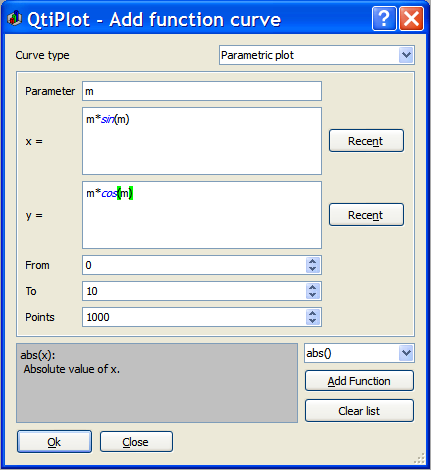
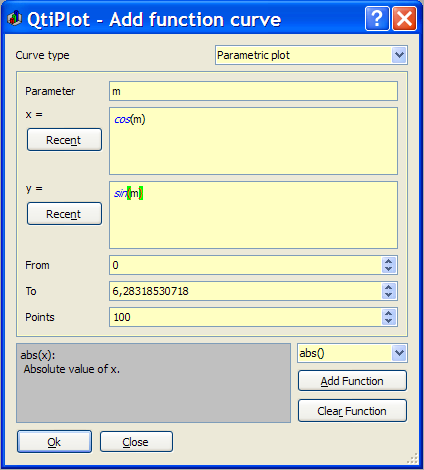
Improved layout of the 2D function dialog (parametric and polar tabs).

diff --git a/trunk/qtiplot/src/plot2D/dialogs/FunctionDialog.cpp b/trunk/qtiplot/src/plot2D/dialogs/FunctionDialog.cpp
@@ -139,7 +139,7 @@ FunctionDialog::FunctionDialog(ApplicationWindow* parent, bool standAlone, Qt::W
 	gl2->addWidget(boxParameter, 0, 1);
 
 	int maxH = 80;
-	gl2->addWidget(new QLabel(tr( "x = " )), 1, 0);
+
 	boxXFunction = new ScriptEdit(d_app->scriptingEnv());
 	boxXFunction->setMaximumHeight(maxH);
 	boxXFunction->enableShortcuts();
@@ -148,10 +148,13 @@ FunctionDialog::FunctionDialog(ApplicationWindow* parent, bool standAlone, Qt::W
 
 	buttonXParLog = new QPushButton(recentBtnText);
 	buttonXParLog->setToolTip(recentTip);
-	gl2->addWidget(buttonXParLog, 1, 2);
 	connect(buttonXParLog, SIGNAL(clicked()), this, SLOT(showXParLog()));
 
-	gl2->addWidget(new QLabel(tr( "y = " )), 2, 0);
+	QVBoxLayout *vlxpar = new QVBoxLayout();
+	vlxpar->addWidget(new QLabel(tr( "x = " )));
+	vlxpar->addWidget(buttonXParLog);
+	vlxpar->addStretch();
+	gl2->addLayout(vlxpar, 1, 0);
 
 	boxYFunction = new ScriptEdit(d_app->scriptingEnv());
 	boxYFunction->setMaximumHeight(maxH);
@@ -161,8 +164,13 @@ FunctionDialog::FunctionDialog(ApplicationWindow* parent, bool standAlone, Qt::W
 
 	buttonYParLog = new QPushButton(recentBtnText);
 	buttonYParLog->setToolTip(recentTip);
-	gl2->addWidget(buttonYParLog, 2, 2);
 	connect(buttonYParLog, SIGNAL(clicked()), this, SLOT(showYParLog()));
+
+	QVBoxLayout *vlypar = new QVBoxLayout();
+	vlypar->addWidget(new QLabel(tr( "y = " )));
+	vlypar->addWidget(buttonYParLog);
+	vlypar->addStretch();
+	gl2->addLayout(vlypar, 2, 0);
 
 	gl2->addWidget(new QLabel(tr( "From" )), 3, 0);
 	boxParFrom = new DoubleSpinBox();
@@ -195,7 +203,6 @@ FunctionDialog::FunctionDialog(ApplicationWindow* parent, bool standAlone, Qt::W
 	boxPolarParameter->setText ("t");
 	gl3->addWidget(boxPolarParameter, 0, 1);
 
-	gl3->addWidget(new QLabel(tr( "R =" )), 1, 0);
 	boxPolarRadius = new ScriptEdit(d_app->scriptingEnv());
 	boxPolarRadius->setMaximumHeight(maxH);
 	boxPolarRadius->enableShortcuts();
@@ -204,10 +211,13 @@ FunctionDialog::FunctionDialog(ApplicationWindow* parent, bool standAlone, Qt::W
 
 	buttonPolarRadiusLog = new QPushButton(recentBtnText);
 	buttonPolarRadiusLog->setToolTip(recentTip);
-	gl3->addWidget(buttonPolarRadiusLog, 1, 2);
 	connect(buttonPolarRadiusLog, SIGNAL(clicked()), this, SLOT(showPolarRadiusLog()));
 
-	gl3->addWidget(new QLabel(tr( "Theta =" )), 2, 0);
+	QVBoxLayout *vlrpar = new QVBoxLayout();
+	vlrpar->addWidget(new QLabel(tr( "R =" )));
+	vlrpar->addWidget(buttonPolarRadiusLog);
+	vlrpar->addStretch();
+	gl3->addLayout(vlrpar, 1, 0);
 
 	boxPolarTheta = new ScriptEdit(d_app->scriptingEnv());
 	boxPolarTheta->setMaximumHeight(maxH);
@@ -217,8 +227,13 @@ FunctionDialog::FunctionDialog(ApplicationWindow* parent, bool standAlone, Qt::W
 
 	buttonPolarRThetaLog = new QPushButton(recentBtnText);
 	buttonPolarRThetaLog->setToolTip(recentTip);
-	gl3->addWidget(buttonPolarRThetaLog, 2, 2);
 	connect(buttonPolarRThetaLog, SIGNAL(clicked()), this, SLOT(showPolarThetaLog()));
+
+	QVBoxLayout *vltpar = new QVBoxLayout();
+	vltpar->addWidget(new QLabel(tr( "Theta =" )));
+	vltpar->addWidget(buttonPolarRThetaLog);
+	vltpar->addStretch();
+	gl3->addLayout(vltpar, 2, 0);
 
 	gl3->addWidget(new QLabel(tr( "From" )), 3, 0);
 	boxPolarFrom = new DoubleSpinBox();

diff --git a/trunk/qtiplot/src/plot2D/dialogs/EnrichmentDialog.cpp b/trunk/qtiplot/src/plot2D/dialogs/EnrichmentDialog.cpp
@@ -801,14 +801,14 @@ void EnrichmentDialog::setCoordinates(int unit)
 		double left = xBox->value();
 		double top = yBox->value();
 		FrameWidget *fw = qobject_cast<FrameWidget *>(d_widget);
-        if (fw)
-            fw->setCoordinates(left, top, left + widthBox->value(), top - heightBox->value());
+		if (fw)
+			fw->setCoordinates(left, top, left + widthBox->value(), top - heightBox->value());
 	} else
 		FrameWidget::setRect(d_widget, xBox->value(), yBox->value(),
-        widthBox->value(), heightBox->value(), (FrameWidget::Unit)unit);
+		widthBox->value(), heightBox->value(), (FrameWidget::Unit)unit);
 
-    if (d_plot)
-        d_plot->multiLayer()->notifyChanges();
+	if (d_plot)
+		d_plot->multiLayer()->notifyChanges();
 
 	ApplicationWindow *app = (ApplicationWindow *)parentWidget();
 	if (app)
